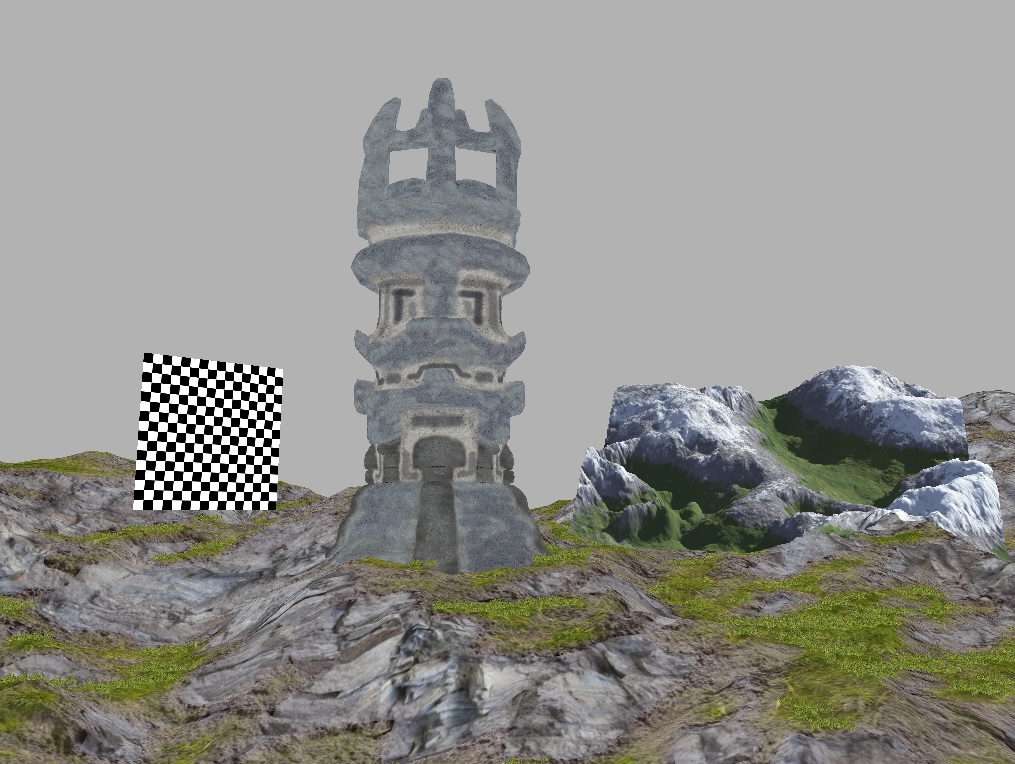
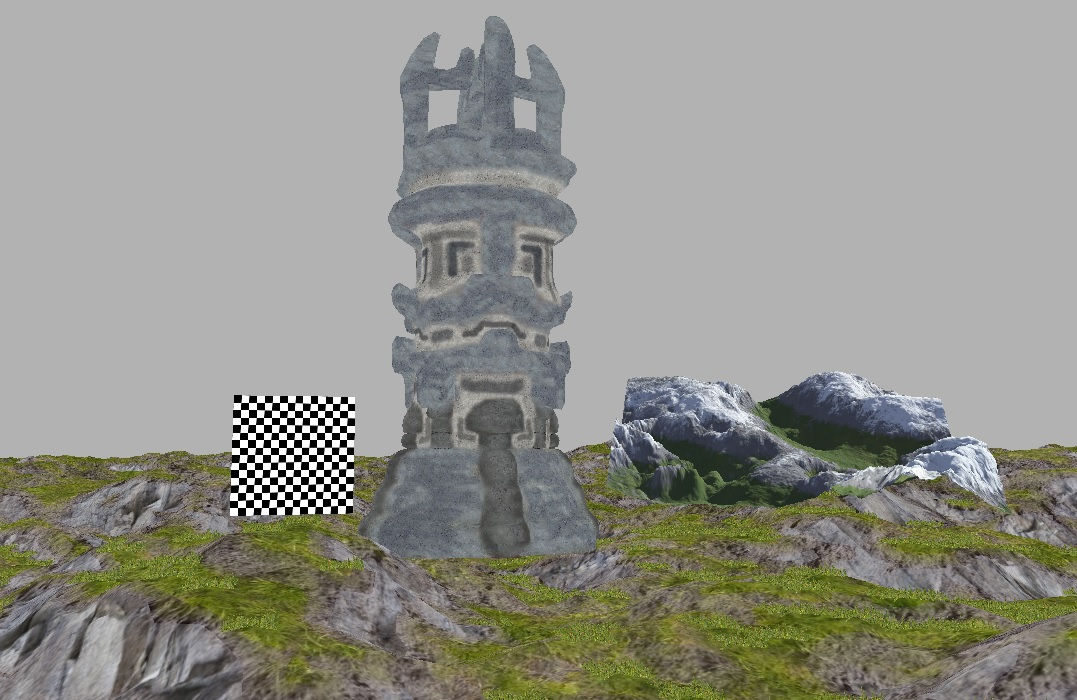
minor changes

diff --git a/OpenGLTest/ObjectGenerator.cpp b/OpenGLTest/ObjectGenerator.cpp
@@ -86,7 +86,7 @@ PerlinHeightmapObject* genPerlinHeightmapObject(glm::vec3 start_loc, int length)
 	glm::vec4 specular(1.0, 1.0, 1.0, 1.0);
 	float shininess = 50.0f;
 	float spacing = 1.0f;
-	float amplitude = 8.0;
+	float amplitude = 4.0;
 
 	return new PerlinHeightmapObject("perlin_hm", true, false, ambient, diffuse, specular, shininess, programState.allPrograms[1],
 		                             start_loc, length, spacing, amplitude);

diff --git a/OpenGLTest/Window.h b/OpenGLTest/Window.h
@@ -8,8 +8,8 @@
 
 /* Parameters used to construct the main window. */
 const std::string WINDOW_NAME = "OpenGLTest";
-const int WINDOW_WIDTH = 1024;
-const int WINDOW_HEIGHT = 768;
+const int WINDOW_WIDTH = 1080;
+const int WINDOW_HEIGHT = 720;
 const int WINDOW_XPOS = SDL_WINDOWPOS_UNDEFINED;
 const int WINDOW_YPOS = SDL_WINDOWPOS_UNDEFINED;
 
